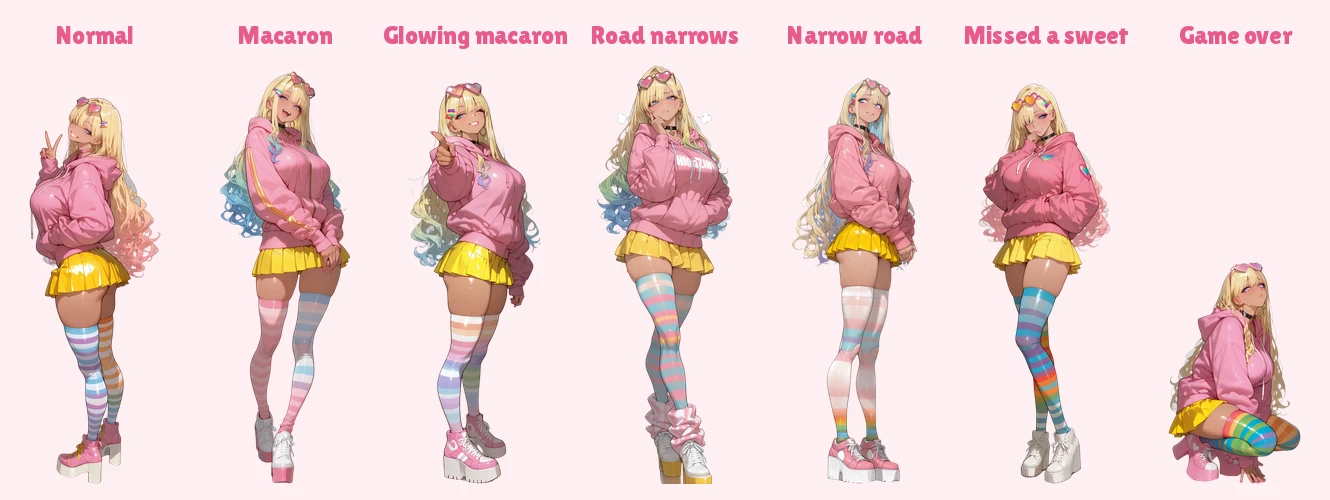
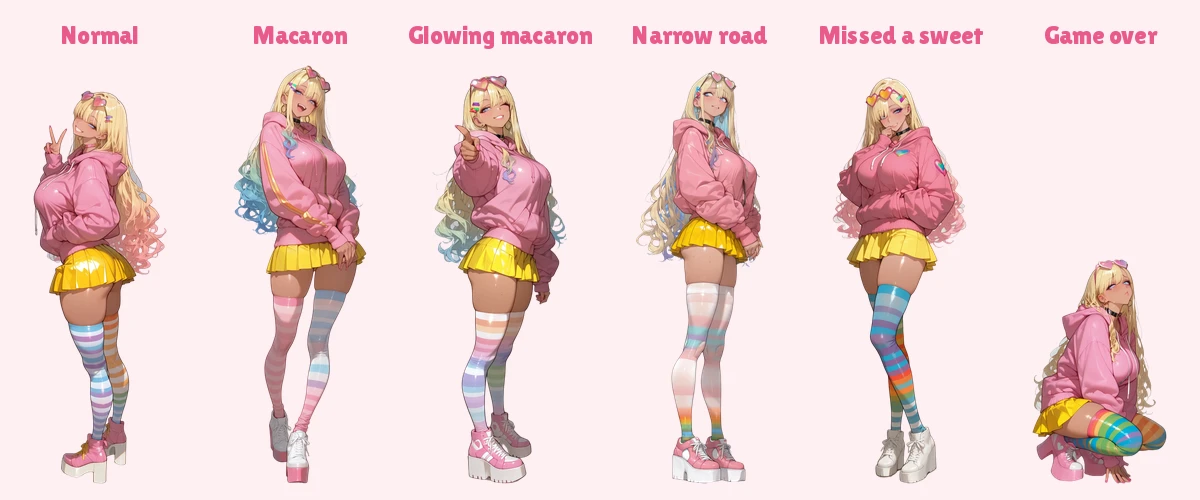
docs(readme): drop the portrait and music notes and one of the two narrow-road reactions

diff --git a/README.md b/README.md
@@ -55,10 +55,6 @@ Your character stands beside the road and reacts to the run: she relaxes on a wi
 | <img src="./doc/img/faces/street.png" width="64" alt="Taisho"> | 86 | 15 + α |
 | <img src="./doc/img/faces/secret.png" width="64" alt="secret"> | 86 | 15 + α |
 
-The portraits cover about twenty situations (a sweet picked up, a narrow road, a miss, a retry and more), with several poses each. Some are still being drawn. α is what the secrets unlock.
-
-The music is Vivaldi's *Four Seasons* arranged as drum and bass: Spring on the title, Autumn on character select, Winter on the road, Summer in the gallery.
-
 Everything in this game was made with AI: the program, the characters and illustrations, the blocks and items, the backgrounds and the music arrangements. I have wanted to make games since I was a student, and I wanted to find out what is left for a person to do when a game is built with AI.
 
 ## How to play
